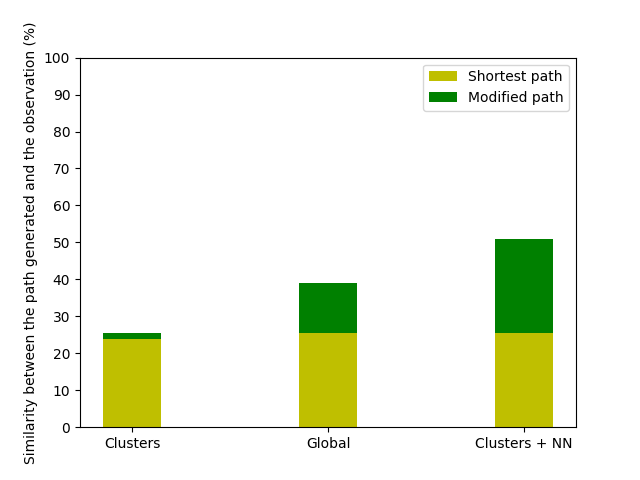
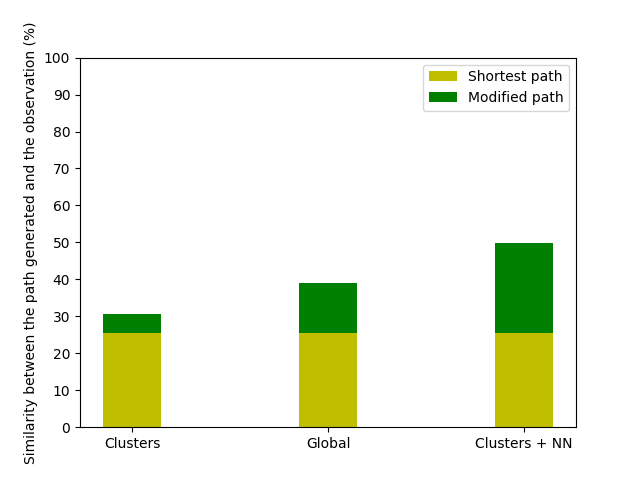
mapbox similarity and no more distance

Changed region(s): [[0.1562, 0.6562, 0.25, 0.7188], [0.7812, 0.5, 0.875, 0.5312]]

diff --git a/main.py b/main.py
@@ -31,7 +31,7 @@ import python.validation as validation
 #from python.NN import *
 
 
-project_folder = "veleval_walk"
+project_folder = "veleval"
 print(project_folder)
 
 global_metric = True
@@ -81,6 +81,11 @@ with open("files/"+project_folder+"/data_processed/mapbox_pathfinding.df",'rb') 
 
 with open("files/"+project_folder+"/data_processed/observations_matched_simplified.df",'rb') as infile:
     df_simplified = pickle.load(infile)
+
+
+if not os.path.exists(os.path.dirname("files/"+project_folder+"/city_graphs/city.ox")):
+    print("Creating city.ox")
+    exec(open("files/"+project_folder+"/load_city.py").read())
 
 with open("files/"+project_folder+"/city_graphs/city.ox", "rb") as infile:
     G_1 = pickle.load(infile)
@@ -177,10 +182,10 @@ def create_path_compute_similarity(d_point, f_point, df, tree, G, nodes, global_
     tab_voxels, tab_voxels_global, dict_voxels = voxel.generate_voxels(df_coeff, 0, 1)
 
     #\\\DEBUG///
-    '''tab_voxels_min_route = voxel.get_voxels_with_min_routes(dict_voxels, 2)
+    '''tab_voxels_min_route = voxel.get_voxels_with_min_routes(dict_voxels, 2, global_metric)
     df = pd.DataFrame(tab_voxels_min_route, columns=["lat", "lon", "route_num", "type"])
     df_coeff = df_coeff.append(df)
-    dp.display_mapbox(df_coeff, color="type") '''
+    dp.display_mapbox(df_coeff, color="type")'''
 
     if(global_metric):
         coeff = metric.get_distance_voxels(0, 1, tab_voxels_global)
@@ -387,6 +392,7 @@ def main_clusters(global_metric):
     print("Mean modified path similarity:", sum(tab_coeff_modified)/len(tab_coeff_modified)*100, "%")
     print("Mean improvement:", sum(tab_diff_coeff)/len(tab_diff_coeff)*100, "%")
     print("===============================")
+    
 
     return tab_coeff_simplified, tab_coeff_modified, tab_diff_coeff
     
@@ -582,14 +588,16 @@ def main_clusters_full_predict(global_metric, deviation = 0):
         tab_coeff_modified.append(1-min(coeff_modified))
         tab_diff_coeff.append((1-min(coeff_modified))-(1-min(coeff_simplified)))
         
-        df_route["route_num"] = 0
+        '''df_route_tested["route_num"] = 0
         df_route_modified["route_num"] = 1
         df_mapbox["route_num"] = 2
+        df_route["route_num"] = 3
         
-        df_display = df_route.append(df_route_modified)
+        df_display = df_route_tested.append(df_route_modified)
+        df_display = df_display.append(df_route)
         df_display = df_display.append(df_mapbox)
-        dp.display_mapbox(df_display, color="route_num")
-        break
+        dp.display_mapbox(df_display, color="route_num")'''
+
        
     
     print("CLUSTERS FULL PREDICTED:")
@@ -616,7 +624,7 @@ def main_mapbox(global_metric):
     for i in tab_num_test:
         df_observation = df_simplified[df_simplified["route_num"]==i]
         df_mapbox = df_mapbox_routes_test[df_mapbox_routes_test["route_num"]==i]
-        
+
         df_observation["route_num"] = 0
         df_observation["type"] = 0    
         df_mapbox["route_num"] = 1
@@ -637,7 +645,14 @@ def main_mapbox(global_metric):
         else:
             coeff = metric.get_distance_voxels(0, 1, tab_voxels)
         
-        tab_coeff_modified.append(coeff[0])
+        tab_coeff_modified.append(1-min(coeff))
+
+
+        '''df_observation["route_num"] = 0
+        df_mapbox["route_num"] = 1
+        
+        df_display = df_observation.append(df_mapbox)
+        dp.display_mapbox(df_display, color="route_num")'''
         
             
     print("MAPBOX :")

diff --git a/python/voxels.py b/python/voxels.py
@@ -371,7 +371,7 @@ def get_voxels_from_route(route):
     df_temp["route_num"] = 1
     return create_dict_vox(df_temp, 1)
 
-def get_voxels_with_min_routes(dict_vox, min_routes):
+def get_voxels_with_min_routes(dict_vox, min_routes, glob=True):
     """
     Return all voxels or groups of voxels that have at least a number of routes passing through themselves.
     Parameters
@@ -392,7 +392,9 @@ def get_voxels_with_min_routes(dict_vox, min_routes):
     tab_voxel_with_min_routes = [] #final list containing all voxels that matches with the conditions
     
     for key in dict_vox: #for all voxels
-        tab_routes = dict_vox[key]["tab_routes_real"]+dict_vox[key]["tab_routes_extended"]
+        tab_routes = dict_vox[key]["tab_routes_real"]
+        if(glob):
+            tab_routes += dict_vox[key]["tab_routes_extended"]
         
         #print(dict_vox[key][0], dict_vox[key][1])
         

diff --git a/files/veleval_walk/load_city.py b/files/veleval_walk/load_city.py
@@ -1,6 +1,7 @@
 import osmnx as ox
 import pickle
 import pandas as pd
+import os
 
 with open("files/veleval_walk/data_processed/observations_matched_simplified.df", "rb") as infile:
     df = pickle.load(infile)
@@ -61,6 +62,9 @@ G_lyon = ox.graph_from_bbox(nort_lat_ly, sout_lat_ly, east_lon_ly, west_lon_ly, 
 G_stetienne = ox.graph_from_bbox(nort_lat_se, sout_lat_se, east_lon_se, west_lon_se, network_type='walk')
 
 print(len(G_lyon), len(G_stetienne))
+
+if not os.path.exists(os.path.dirname("files/veleval_walk/city_graphs/city.ox")):
+    os.makedirs(os.path.dirname("files/veleval_walk/city_graphs/city.ox"))
 
 with open("files/veleval_walk/city_graphs/city.ox", "wb") as outfile:
     pickle.dump(G_lyon, outfile)

diff --git a/files/veleval/load_city.py b/files/veleval/load_city.py
@@ -1,6 +1,7 @@
 import osmnx as ox
 import pickle
 import pandas as pd
+import os
 
 with open("files/veleval/data_processed/observations_matched_simplified.df", "rb") as infile:
     df = pickle.load(infile)
@@ -61,6 +62,9 @@ G_lyon = ox.graph_from_bbox(nort_lat_ly, sout_lat_ly, east_lon_ly, west_lon_ly)
 G_stetienne = ox.graph_from_bbox(nort_lat_se, sout_lat_se, east_lon_se, west_lon_se)
 
 print(len(G_lyon), len(G_stetienne))
+
+if not os.path.exists(os.path.dirname("files/veleval/city_graphs/city.ox")):
+    os.makedirs(os.path.dirname("files/veleval/city_graphs/city.ox"))
 
 with open("files/veleval/city_graphs/city.ox", "wb") as outfile:
     pickle.dump(G_lyon, outfile)

diff --git a/files/monresovelo/load_city.py b/files/monresovelo/load_city.py
@@ -39,5 +39,8 @@ df_test = pd.DataFrame([[nort_lat, west_lon, 0],
 
 G = ox.graph_from_bbox(nort_lat, sout_lat, east_lon, west_lon)
 
+if not os.path.exists(os.path.dirname("files/monresovelo/city_graphs/city.ox")):
+    os.makedirs(os.path.dirname("files/monresovelo/city_graphs/city.ox"))
+
 with open("files/monresovelo/city_graphs/city.ox", "wb") as outfile:
     pickle.dump(G, outfile)
